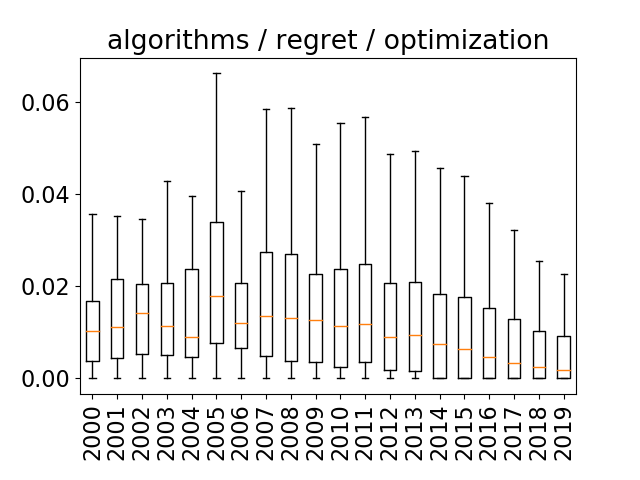
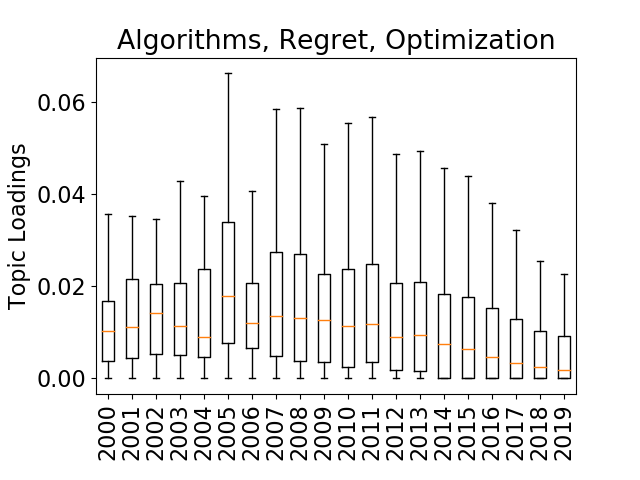
Update images to show y-axis label and capitalized names.

Changed region(s): [[0.0, 0.1562, 0.875, 0.9688], [0.1562, 0.0625, 0.875, 0.125], [0.0312, 0.1875, 0.1562, 0.25]]

diff --git a/src/analysis/topics_over_time.py b/src/analysis/topics_over_time.py
@@ -144,6 +144,7 @@ def topic_evolution(
             ax=axs[0]
         )
         plt.gcf().subplots_adjust(bottom=0.18)
+        plt.gcf().subplots_adjust(left=0.18)
     if output:
         plt.savefig(output)
     else:
@@ -153,6 +154,7 @@ def create_topic_evolution_boxplot(vals, labels, sym=None, title=None, ax=None, 
     _ = ax.boxplot(vals, sym=sym)
     _ = ax.set_title(title)
     _ = ax.set_xticklabels(labels=labels, rotation=90)
+    _ = ax.set_ylabel("Topic Loadings")
 
     if tight:
         _ = ax.set_xticklabels(labels=labels, fontsize=6)
